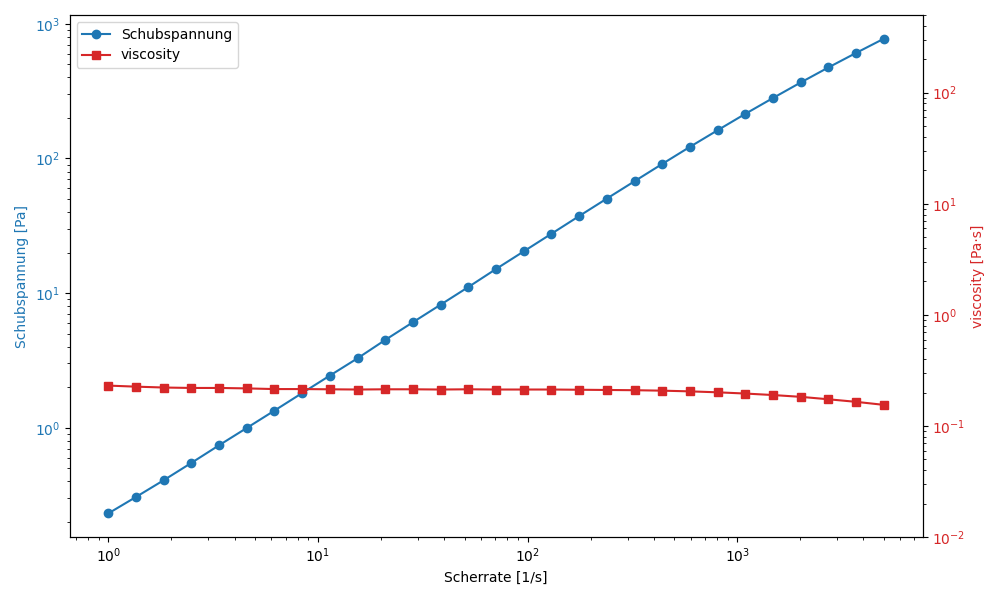
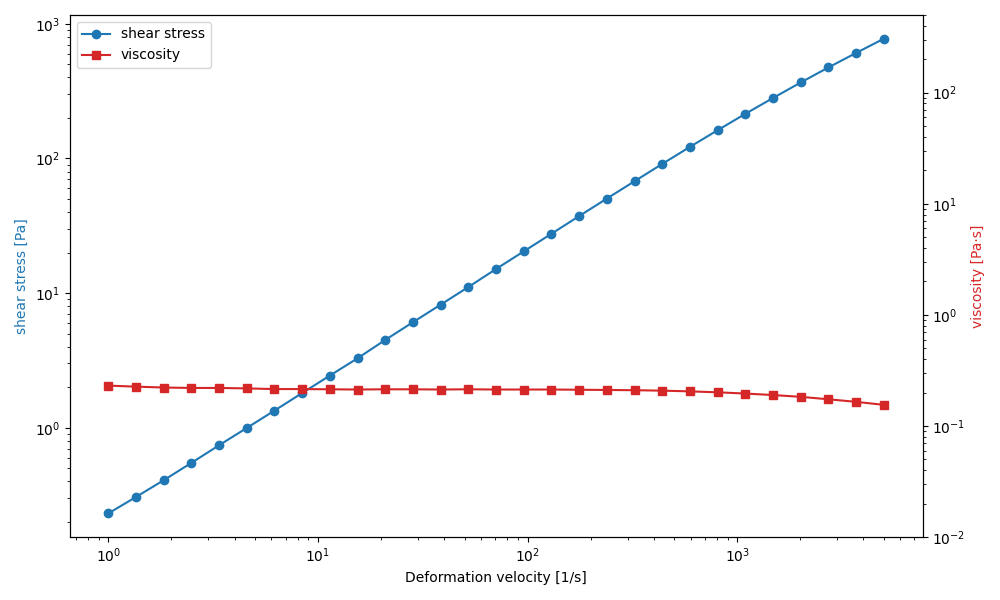
Erste Plots fertig

diff --git a/Rheology/Plots/plots.py b/Rheology/Plots/plots.py
@@ -17,10 +17,10 @@ for i in data:
     fig, ax1 = plt.subplots(figsize=(10, 6))
 
     color1 = 'tab:blue'
-    ax1.set_xlabel('Scherrate [1/s]')
-    ax1.set_ylabel('Schubspannung [Pa]', color=color1)
-    line1, = ax1.plot(scherrate, schubspannung, color=color1, marker='o', label='Schubspannung')
-    ax1.tick_params(axis='y', labelcolor=color1)
+    ax1.set_xlabel('Deformation velocity [1/s]')
+    ax1.set_ylabel('shear stress [Pa]', color=color1)
+    line1, = ax1.plot(scherrate, schubspannung, color=color1, marker='o', label='shear stress')
+    ax1.tick_params(axis='y')
     ax1.set_xscale('log') # Logarithmische x-Achse ist bei Rheologie üblich
     ax1.set_yscale('log')
 
@@ -30,7 +30,7 @@ for i in data:
     ax2.set_ylim(1e-2, 500) 
     ax2.set_ylabel('viscosity [Pa·s]', color=color2)
     line2, = ax2.plot(scherrate, viskosität, color=color2, marker='s', label='viscosity')
-    ax2.tick_params(axis='y', labelcolor=color2)
+    ax2.tick_params(axis='y')
     ax2.set_yscale('log')
 
     lines = [line1, line2]
